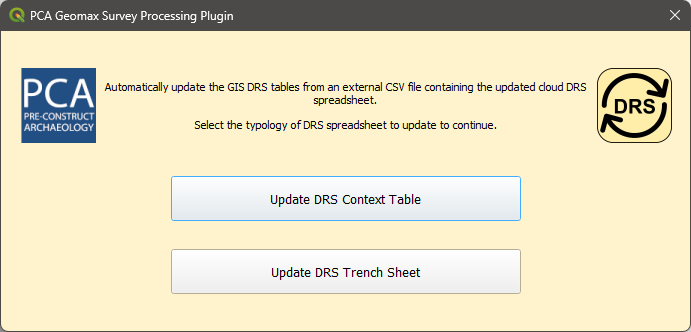
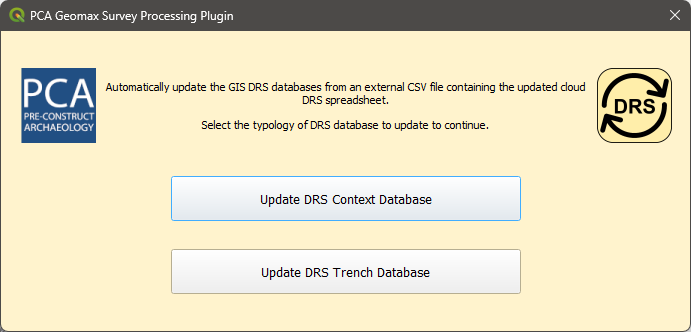
adding DRS Db names exceptions

diff --git a/PCA_Geomax_Survey_Processing/help/help.html b/PCA_Geomax_Survey_Processing/help/help.html
@@ -61,7 +61,7 @@
 			<p><img src="../icons/geomax_processing_copy_paste_icon.png" alt="Plugin Toolbar" style="width:300px;height:auto;"> A tool to copy and paste all the new data from the survey processed layers to the corresponding GIS layers.</p>
 		  </li>
 		  <li>
-			<p><img src="../icons/geomax_update_DRS_icon.png" alt="Plugin Toolbar" style="width:300px;height:auto;" > A tool to automatically update the DRS_Table from an external CSV file.</p>
+			<p><img src="../icons/geomax_update_DRS_icon.png" alt="Plugin Toolbar" style="width:300px;height:auto;" > A tool to automatically update the DRS databases from an external CSV file.</p>
 		  </li>
 		  <li>
 		    <p><img src="../icons/geomax_backup_gpkg_icon.png" alt="Plugin Toolbar" style="width:300px;height:auto;" > A tool to create a backup copy of the active Geopackage.</p>
@@ -132,16 +132,21 @@
 		<p style="text-align: center;"><img src="img/step_03_02.png" alt=" " style="width:2500px;height:auto;" ></p>
 		</br>
 		<p class='step'>Step 4</p>
-		<p>Since the live version of the DRS Spreadsheets are contained into the main geopackage, a dedicated tool <img src="../icons/geomax_update_DRS_icon.png" alt="" width="100" height="100" > to help the update of the spreadsheets is available in the toolbar.</p>
-		<p>Running the tool will open a dialogue box where is possible to select which DRS register ((DRS_Table for the Context register or DRS_Trench_Sheets for the Trench Sheet Register) is going to be updated:<br><br>
+		<p>Since the live version of the DRS databases are contained into the main geopackage, a dedicated tool <img src="../icons/geomax_update_DRS_icon.png" alt="" width="100" height="100" > to help the update of the spreadsheets is available in the toolbar.</p>
+		<p>Running the tool will open a dialogue box where is possible to select which DRS database (DRS_COntext_Database for the Context list or DRS_Trench_Database for the Trench Sheet database) is going to be updated:<br><br>
 		<p style="text-align: center;"><img src="img/step_04_001.png" alt=" " style="width:2500px;height:auto;" ></p>
 		</br>
-		<p>Both buttons will open a similar dialogue where the desired DRS spreadsheet is preselected in the dropdown dedicated list.</br>On the dialogue is possible to select:</p>
+		<p>Both buttons will open a similar dialogue where the desired DRS spreadsheet is preselected in the dropdown dedicated list.</p>
+		<p style="text-align: center;"><img src="img/step_04_01b.png" alt=" " style="width:2500px;height:auto;"></p>
+		</br>
+		<p>On the dialogue is possible to select:</p>
 		<ul style="list-style: none;">
 			<li>
-			<p>a.	the active DRS_Table from the GIS layer list that will be overwritten.</p></li>
+			<p>a.	the active DRS database from the GIS layer list that will be overwritten.</p></li>
 			<li><p>b.	an external .CSV file containing the update version of the cloud DRS Spreadsheet (usually downloaded from the DRS Google Cloud). To select the file, press <img src="img/folder_select.png" alt="" width="75" height="75" > and, on the Explorer window, navigate to the location of the selected file.</p></li>
 		</ul>
+		
+		</br>
 		<p>A message will confirm the success of the operation. </p>
 		<p style="text-align: center;"><img src="img/step_04_02.png" alt=" " style="width:2500px;height:auto;"></p>
 		</br>

diff --git a/PCA_Geomax_Survey_Processing/pca_geomax_survey_processing.py b/PCA_Geomax_Survey_Processing/pca_geomax_survey_processing.py
@@ -1,4 +1,6 @@
 # -*- coding: utf-8 -*-
+# -*- coding: utf-8 -*-
+# -*- coding: utf-8 -*-
 """
 /***************************************************************************
  PCA_Geomax_processing
@@ -334,7 +336,7 @@ class PCA_Geomax_processing:
                 new_processed_path = second_interm_path.replace(third_last_folder,'')
 
                 
-                directory = "processed_shapefiles_123" # new folder name
+                directory = "processed_shapefiles" # new folder name
                 global path  #new path
                 path = os.path.join(new_processed_path,directory)
 
@@ -1043,14 +1045,31 @@ class PCA_Geomax_processing:
         # if self.first_start == True:
            # self.first_start = False
 
-        if len(QgsProject.instance().mapLayersByName('DRS_Table')) == 0:
+        # if len(QgsProject.instance().mapLayersByName('DRS_Table')) == 0:
+            # return self.dontdonothing
+        # else: 
+            # DRS_context = QgsProject.instance().mapLayersByName("DRS_Table")[0]
+            
+        # Attempt to get the layer from the project
+        layers = QgsProject.instance().mapLayersByName('DRS_Context_Database')
+
+        if layers:
+            # Layer found, assign the first layer
+            layer = layers[0]
+        else:
+            # Layer doesn't exist, assign another layer or handle the error
+            layers = QgsProject.instance().mapLayersByName('DRS_Table')
+            
+            if layers:
+                layer = layers[0]
+            else:
+                # Neither layer exists, handle the error
+                layer = None
+
+        if not layer:
             return self.dontdonothing
-        else: 
-            DRS_context = QgsProject.instance().mapLayersByName("DRS_Table")[0]
-        
-        
-        
-            self.dlgtool5.DRS_on_GIS_comboBox.setLayer(DRS_context)
+        if layer:
+            self.dlgtool5.DRS_on_GIS_comboBox.setLayer(layer)
         
         # show the dialog
         self.dlgtool5.show()
@@ -1065,7 +1084,7 @@ class PCA_Geomax_processing:
             new_DRS_csv_file = self.dlgtool5.DRS_new_file_mQgsFileWidget.filePath()
             
             if len(DRS_Table_on_GIS.name()) == 0:
-                QMessageBox.about(None,'PCA Geomax Survey Processing', 'No valid DRS table was selected. Please select a layer.')
+                QMessageBox.about(None,'PCA Geomax Survey Processing', 'No valid DRS dataabase was selected. Please select a layer.')
                 return self.dontdonothing()
              
             else:
@@ -1125,19 +1144,42 @@ class PCA_Geomax_processing:
                             QMessageBox.about(
                             None,
                             'PCA Geomax Survey Processing',
-                            '''The GIS DRS Context spreadsheet (DRS_Table) has been successfully updated!''') 
+                            '''The GIS <strong>DRS Context Database</strong> has been successfully updated!''') 
                             
     def update_DRS_Trench_sheet_table(self):
         # if self.first_start == True:
            # self.first_start = False
-        if len(QgsProject.instance().mapLayersByName('DRS_Trench_sheet')) == 0:
+        # if len(QgsProject.instance().mapLayersByName('DRS_Trench_sheet')) == 0:
+            # return self.dontdonothing
+        # else: 
+            # DRS_trench_sheet = QgsProject.instance().mapLayersByName("DRS_Trench_sheet")[0]
+            # self.dlgtool6.DRS_on_GIS_comboBox.setLayer(DRS_trench_sheet)
+            
+             
+        # Attempt to get the layer from the project
+        layers = QgsProject.instance().mapLayersByName('DRS_Trench_Database')
+
+        if layers:
+            # Layer found, assign the first layer
+            layer = layers[0]
+        else:
+            # Layer doesn't exist, assign another layer or handle the error
+            layers = QgsProject.instance().mapLayersByName('DRS_Trench_sheet')
+            
+            if layers:
+                layer = layers[0]
+            else:
+                # Neither layer exists, handle the error
+                layer = None
+
+        if not layer:
             return self.dontdonothing
-        else: 
-            DRS_trench_sheet = QgsProject.instance().mapLayersByName("DRS_Trench_sheet")[0]
-        
-        
-        
-            self.dlgtool6.DRS_on_GIS_comboBox.setLayer(DRS_trench_sheet)
+        if layer:
+            self.dlgtool6.DRS_on_GIS_comboBox.setLayer(layer)    
+            
+            
+            
+            
         # show the dialog
         self.dlgtool6.show()
         # Run the dialog event loop
@@ -1149,7 +1191,7 @@ class PCA_Geomax_processing:
             new_DRS_csv_file = self.dlgtool6.DRS_new_file_mQgsFileWidget.filePath()
                  
             if len(DRS_Table_on_GIS.name()) == 0:
-                QMessageBox.about(None,'PCA Geomax Survey Processing', 'No valid DRS table was selected. Please select a layer.')
+                QMessageBox.about(None,'PCA Geomax Survey Processing', 'No valid DRS database was selected. Please select a layer.')
                 return self.dontdonothing()
              
             else:
@@ -1212,7 +1254,7 @@ class PCA_Geomax_processing:
                             QMessageBox.about(
                             None,
                             'PCA Geomax Survey Processing',
-                            '''The GIS DRS Trench Sheet spreadsheet (DRS_Trench_sheet) has been successfully updated!''') 
+                            '''The GIS <strong>DRS Trench Database</strong> has been successfully updated!''') 
 
     def help_show(self):
        
